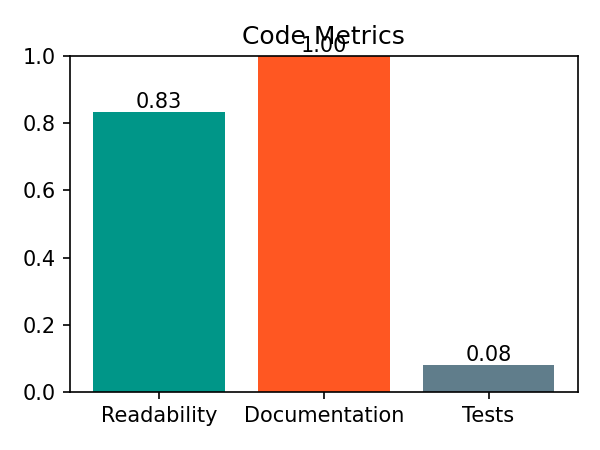
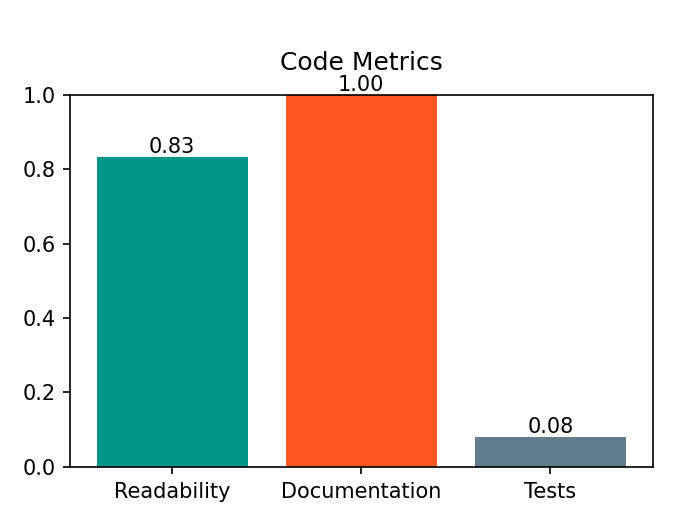
bugfix: added padding to avoid cutting off text in charts

Changed region(s): [[0.03, 0.0622, 0.99, 0.9644]]

diff --git a/ai_judge/scoring/reporter.py b/ai_judge/scoring/reporter.py
@@ -196,17 +196,16 @@ class ReportGenerator:
                 continue
         if not labels:
             return
-
-        fig, ax = plt.subplots(figsize=(6, 3.5))
+        fig, ax = plt.subplots(figsize=(6.5, 4))
         index = range(len(labels))
         ax.bar(index, weighted, label="Weighted", color="#4CAF50", alpha=0.8)
         ax.plot(index, raw, label="Normalized", color="#2196F3", marker="o", linewidth=2)
         ax.set_xticks(list(index))
         ax.set_xticklabels(labels, rotation=30, ha="right")
         ax.set_ylabel("Score")
-        ax.set_title("Criteria Scores")
+        ax.set_title("Criteria Scores", pad=12)
         ax.legend()
-        fig.tight_layout()
+        fig.tight_layout(rect=[0, 0, 1, 0.95])
         output_path = target_dir / "scores.png"
         fig.savefig(output_path, dpi=150)
         plt.close(fig)
@@ -227,12 +226,12 @@ class ReportGenerator:
             values.append(float(video.get("sentiment_score", 0.0)))
         except (TypeError, ValueError):
             return
-        fig, ax = plt.subplots(figsize=(4, 3))
+        fig, ax = plt.subplots(figsize=(4.5, 3.5))
         bars = ax.bar(labels, values, color=["#FF9800", "#03A9F4"])
         ax.set_ylim(0, 1)
-        ax.set_title("Video Metrics")
+        ax.set_title("Video Metrics", pad=12)
         ax.bar_label(bars, fmt="%.2f")
-        fig.tight_layout()
+        fig.tight_layout(rect=[0, 0, 1, 0.95])
         output_path = target_dir / "video_metrics.png"
         fig.savefig(output_path, dpi=150)
         plt.close(fig)
@@ -261,12 +260,12 @@ class ReportGenerator:
                 continue
         if not labels:
             return
-        fig, ax = plt.subplots(figsize=(4, 3))
+        fig, ax = plt.subplots(figsize=(4.5, 3.5))
         bars = ax.bar(labels, values, color=["#8BC34A", "#673AB7", "#E91E63"])
         ax.set_ylim(0, 1)
-        ax.set_title("Text Metrics")
+        ax.set_title("Text Metrics", pad=12)
         ax.bar_label(bars, fmt="%.2f")
-        fig.tight_layout()
+        fig.tight_layout(rect=[0, 0, 1, 0.95])
         output_path = target_dir / "text_metrics.png"
         fig.savefig(output_path, dpi=150)
         plt.close(fig)
@@ -295,12 +294,12 @@ class ReportGenerator:
                 continue
         if not labels:
             return
-        fig, ax = plt.subplots(figsize=(4, 3))
+        fig, ax = plt.subplots(figsize=(4.5, 3.5))
         bars = ax.bar(labels, values, color=["#009688", "#FF5722", "#607D8B"])
         ax.set_ylim(0, 1)
-        ax.set_title("Code Metrics")
+        ax.set_title("Code Metrics", pad=12)
         ax.bar_label(bars, fmt="%.2f")
-        fig.tight_layout()
+        fig.tight_layout(rect=[0, 0, 1, 0.95])
         output_path = target_dir / "code_metrics.png"
         fig.savefig(output_path, dpi=150)
         plt.close(fig)
